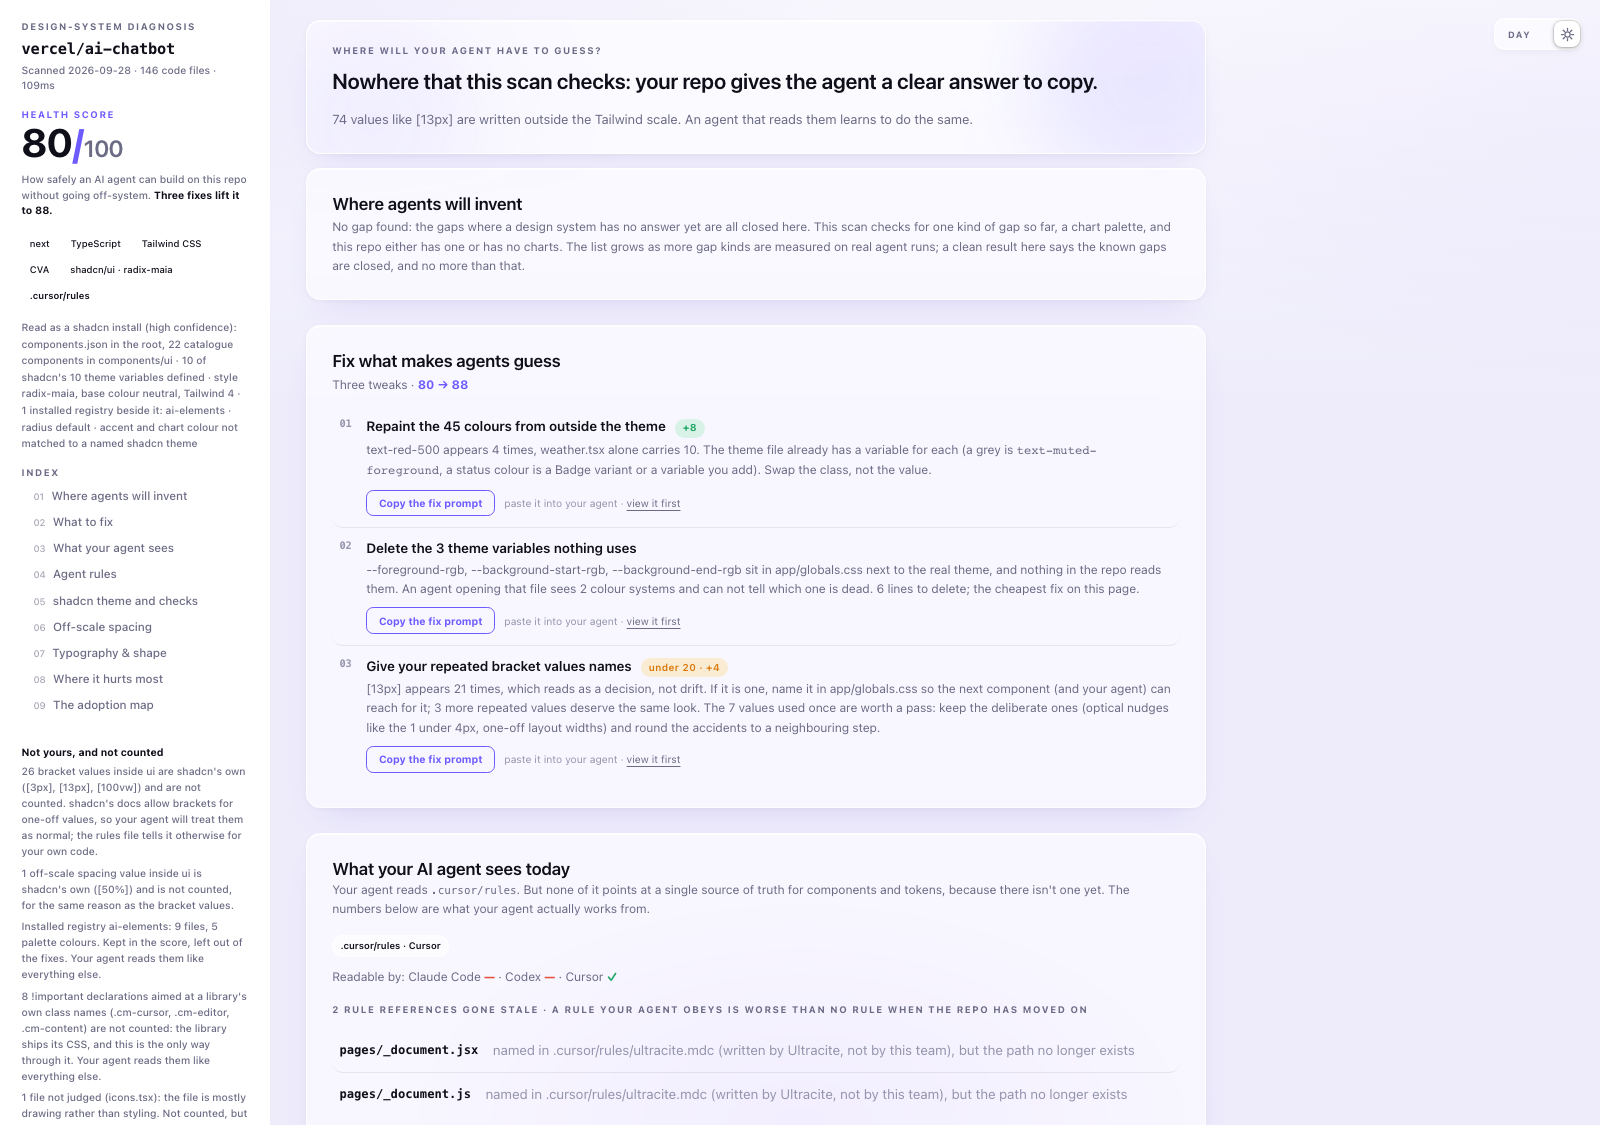
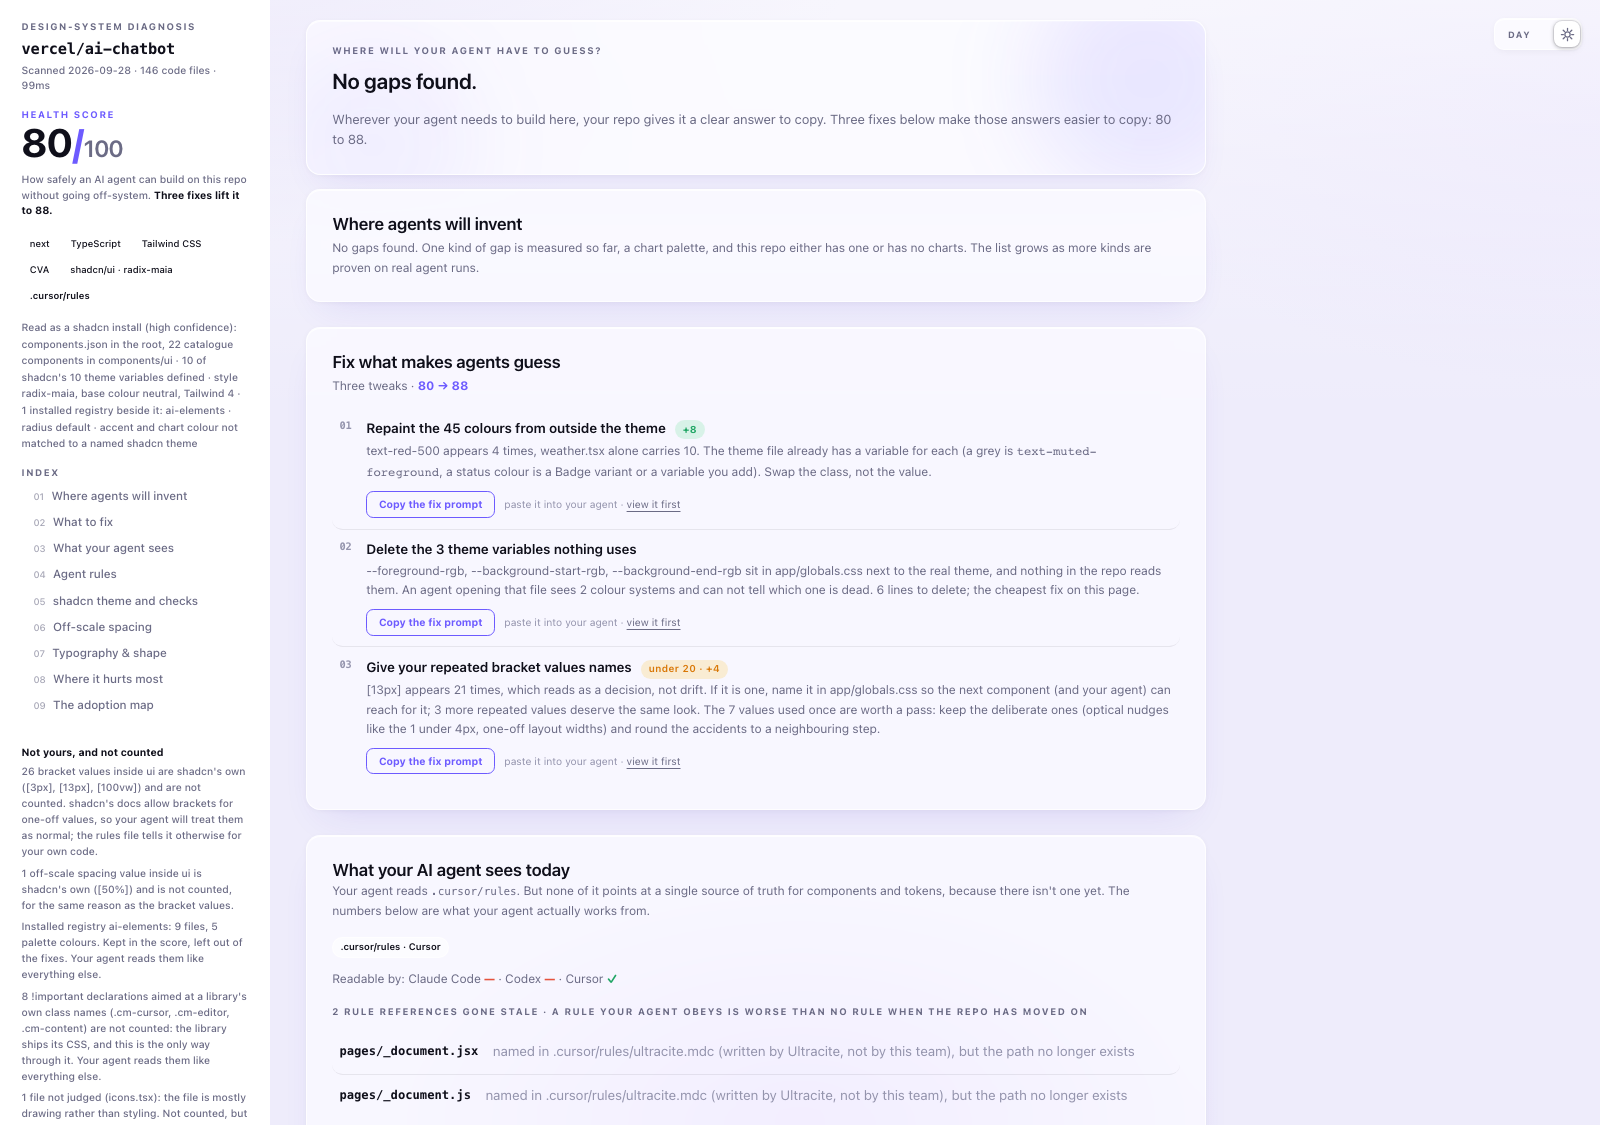
9.1.2: The verdict card says No gaps found and stops there
9.1.1 kept a scan-limit phrase in the headline and a line under it that
contradicted the side panel's fix count. The headline is now the answer alone,
the line under it says what the gap means for the agent and what the fixes do
to the score, and the gaps card opens with the same two words. Screenshots
reshot from the ai-chatbot report.

diff --git a/README.md b/README.md
@@ -142,11 +142,11 @@ Eleven reports, hosted exactly as the tool writes them. Every number determinist
 
 The full report for vercel/ai-chatbot. The verdict answers what the agent will learn here, the gap section comes first, then "What the repo teaches the agent", Claude's read of the scan:
 
-![The full diagnosis report for vercel/ai-chatbot in dark mode: a fixed side panel with the health score and what it measures, the stack, how the repo was read as a shadcn install, an index of every section and what is not the team's and not counted; then the verdict on where the agent will have to guess, the Where agents will invent section, the What the repo teaches the agent analysis written by Claude, priced Fix what makes agents guess moves each with its copy-the-fix-prompt button, the wrapped present with the agent rules, an agent trap callout, 3-yardstick tiles including the 2 shadcn tiles, the adoption map treemap, palette forensics, the shadcn theme variable by variable, spacing receipts, typography specimens, offenders, duplicates, and the component usage ledger](assets/report-full-dark.png?v=9.1.1)
+![The full diagnosis report for vercel/ai-chatbot in dark mode: a fixed side panel with the health score and what it measures, the stack, how the repo was read as a shadcn install, an index of every section and what is not the team's and not counted; then the verdict on where the agent will have to guess, the Where agents will invent section, the What the repo teaches the agent analysis written by Claude, priced Fix what makes agents guess moves each with its copy-the-fix-prompt button, the wrapped present with the agent rules, an agent trap callout, 3-yardstick tiles including the 2 shadcn tiles, the adoption map treemap, palette forensics, the shadcn theme variable by variable, spacing receipts, typography specimens, offenders, duplicates, and the component usage ledger](assets/report-full-dark.png?v=9.1.2)
 
 The same report in light mode (one file, built-in toggle):
 
-![The diagnosis report in light mode](assets/report-light-hero.png?v=9.1.1)
+![The diagnosis report in light mode](assets/report-light-hero.png?v=9.1.2)
 
 ## Why the numbers hold
 

diff --git a/CHANGELOG.md b/CHANGELOG.md
@@ -2,6 +2,19 @@
 
 All notable changes to roast-my-design-system. One version everywhere: the npm package, the Claude Code plugin, and the report footer always match.
 
+## 9.1.2 — 2026-09-28
+
+- **The verdict card says "No gaps found" and stops there.** 9.1.1 still
+  answered the question with a sentence about what the scan checks, and
+  the line under it said the repo was in good shape while the side panel
+  promised two fixes. The headline is now the answer alone: "No gaps
+  found", or "One gap: charts have no palette". The line under it says
+  what that means for the agent, then what the fixes below do to the
+  score ("Two fixes below make those answers easier to copy: 84 to 92").
+  The "Where agents will invent" card opens with "No gaps found" too, and
+  its note on how many gap kinds are measured is one sentence. Scores and
+  counts are unchanged. README screenshots reshot.
+
 ## 9.1.1 — 2026-09-28
 
 - **The report's first question is now "Where will your agent have to
